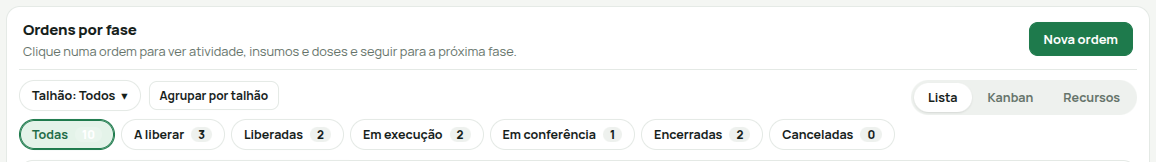
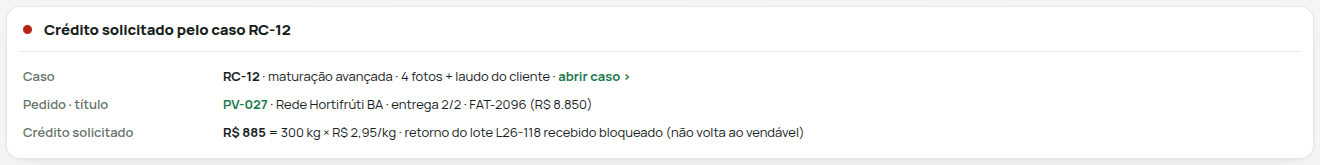
SEP: oráculo do separador na regra de 15/10 e design system VIS-01
Pedido do proprietário (15/10/2026): "retire em todas telas onde tem
excesso de linhas separadoras visuais, deixe somente as que geram efetiva
organização visual e intuitividade".

ds_test.py parte A: o oráculo antigo (A2) exigia linha ou borda no topo
do conteúdo em todo bloco com título; a regra nova só pede a linha quando
o conteúdo logo abaixo é solto. Mudanças:
- A2: linha do título com conteúdo solto (mais estrito que antes nesses
  blocos: a borda do conteúdo não vale mais como linha).
- A2c (novo): sem linha do título antes de tabela, visões, gráfico,
  caixa/cartões, borda ou faixa com fundo.
- A7 (novo): barra da tabela sem linha; A8 (novo): tabela dentro de
  caixa com borda sem moldura própria; A3 a 390 px com as mesmas regras.
- borda() conta só borda visível (cor não transparente).
- amostra separador-bloco.png: bloco do GE-05 (mantém a linha).
ds_unit_test.py: 2.4b (CSS e engine.section) e 2.4c (barra da grade).
docs/design-system/separador-hover-retorno-dica.md §1: regra nova.

Claude-Session: https://claude.ai/code/session_01Div8EjesSwVnpSUvYjZ7kh

diff --git a/tools/prototipo/v37/gen37/ds_test.py b/tools/prototipo/v37/gen37/ds_test.py
@@ -2,7 +2,8 @@
 """DS-SEPARADOR, DS-HOVER, DS-RETORNO e DS-DICA (09/10/2026) · teste de navegador do módulo de design system.
 Chrome headless por CDP (comp_lib.Chrome), servindo o _render:
  A · separador: todas as páginas a 1440 px (cabeçalho da página e linha de título de cada bloco), 8 telas a 390 px e o painel lateral
-     (formulário "Nova safra" e registro do Cadastro);
+     (formulário "Nova safra" e registro do Cadastro); desde 15/10 (SEP-20261015) a linha do título só fica com conteúdo solto abaixo, a barra
+     da tabela não tem linha sobre o cabeçalho e a tabela dentro de caixa com borda não tem moldura própria;
  B · hover verde: linha de grade (O.S. e Cadastros) e controles (secundário, opção de visão, primária) pela cor computada;
  C · retorno visual: tela nova (título realçado, anúncio, barra de carga, foco no título vindo de link); etapa do Planejar safra (avançar
      e voltar); liberar uma O.S. no Kanban (o cartão muda de coluna); normal, repetição e recusa no BO-02; menos movimento;
@@ -110,20 +111,41 @@ SEP = r"""(()=>{ const vis=e=>!!e&&e.getClientRects().length>0;
   const hd=document.querySelector('[data-root]>div>header,[data-mroot]>header,header.g2-cab');
   const hs=hd?getComputedStyle(hd):null; const cab=!!hs&&parseFloat(hs.borderBottomWidth)>=1&&hs.borderBottomStyle!=='none'&&hs.borderBottomColor!=='rgba(0, 0, 0, 0)';
   const linha=(e)=>{ const s=getComputedStyle(e); return /linear-gradient\(rgb\(228, 233, 229\)/.test(s.backgroundImage)||(parseFloat(s.borderBottomWidth)>=1&&s.borderBottomStyle!=='none'); };
-  const borda=(e)=>{ const s=getComputedStyle(e); return parseFloat(s.borderTopWidth)>=1&&s.borderTopStyle!=='none'; };
+  const borda=(e)=>{ const s=getComputedStyle(e); return parseFloat(s.borderTopWidth)>=1&&s.borderTopStyle!=='none'&&!/rgba\(0, 0, 0, 0\)/.test(s.borderTopColor); };   /* borda visível */
   const prim=(e)=>{ let f=e&&e.firstElementChild; while(f&&getComputedStyle(f).display==='contents') f=f.firstElementChild; return f; };
   /* o conteúdo começa por uma borda no topo (tabela emoldurada, caixa com borda, ficha cuja 1ª célula tem border-top): ela é a linha */
   const moldura=(nx)=>{ const f=prim(nx); if(!f) return false; if(borda(f)) return true; const g=prim(f); return !!g&&borda(g); };
   /* linha dupla (revisão DS, achado 5): a linha do título e, até 14 px abaixo dela, outra borda larga no topo do conteúdo */
   const dupla=(row)=>{ const r=row.getBoundingClientRect(), nx=row.nextElementSibling; if(!nx) return false;
     return [nx,...nx.querySelectorAll('*')].filter(vis).slice(0,40).some(k=>{ const q=k.getBoundingClientRect(); return q.top-r.bottom<=14&&q.top>=r.bottom-1&&borda(k)&&q.width>r.width*0.5; }); };
-  const fora=[], duplas=[]; let n=0;
+  /* SEP-20261015 (proprietário, 15/10): a linha do título só fica com conteúdo solto logo abaixo (texto, formulário, lista sem moldura);
+     sai quando o corpo começa por tabela, barra de visões, gráfico, caixa (ou cartões), borda no topo ou faixa com fundo próprio */
+  const ctrl=e=>!!e.closest('button,input,select,textarea,a[href],label,[role=button],[role=tab],[role=group],[role=tablist]');
+  const tr=c=>/rgba\(0, 0, 0, 0\)|transparent/.test(c);
+  const caixaVis=e=>{ const s=getComputedStyle(e); return ['Top','Right','Bottom','Left'].every(l=>parseFloat(s['border'+l+'Width'])>=1&&s['border'+l+'Style']!=='none'&&!tr(s['border'+l+'Color'])); };
+  const bordaVis=e=>borda(e)&&!tr(getComputedStyle(e).borderTopColor);
+  const estrut=(row)=>{ const r0=row.getBoundingClientRect(), nx=row.nextElementSibling, fs=getComputedStyle(row.parentElement).backgroundColor;
+    for(const k of [nx,...nx.querySelectorAll('*')].filter(vis).slice(0,80)){ const s=getComputedStyle(k); if(s.display==='contents') continue; const q=k.getBoundingClientRect(); if(q.top-r0.bottom>40) break;
+      if(k.matches('.g2visoes-w')) return 'visões'; if(k.matches('.g2caixa,[role=table],table')) return 'tabela';
+      if(k.matches('svg,[role=img]')&&q.width>r0.width*0.4) return 'gráfico'; if(ctrl(k)) continue;
+      if(caixaVis(k)) return 'caixa'; if(bordaVis(k)&&q.width>r0.width*0.5) return 'borda';
+      const fundo=!tr(s.backgroundColor)&&s.backgroundColor!==fs&&q.height>=16&&!(parseFloat(s.borderTopLeftRadius)>=14&&q.height<=48)&&!k.matches('[aria-current]');
+      if(fundo&&q.width>r0.width*0.5) return 'faixa';
+      if(fundo&&[...k.parentElement.children].some(x=>x!==k&&vis(x)&&getComputedStyle(x).backgroundColor!==fs&&!tr(getComputedStyle(x).backgroundColor))) return 'cartões';
+      if([...k.childNodes].some(t=>t.nodeType===3&&t.textContent.trim().length>2)) return ''; }
+    return ''; };
+  const fora=[], duplas=[], sobra=[]; let n=0, nsolto=0;
   for(const s of document.querySelectorAll('main section')){ const row=s.firstElementChild; if(!vis(row)||!row.nextElementSibling) continue;
     if(!row.querySelector(':scope>h2,:scope>h3,:scope>div>h2,:scope>div>h3')) continue; n++;
-    const ln=linha(row), t=(row.querySelector('h2,h3').innerText||'').slice(0,40);
-    if(!(ln||moldura(row.nextElementSibling))) fora.push(t);
+    const ln=linha(row), t=(row.querySelector('h2,h3').innerText||'').slice(0,40), es=estrut(row);
+    if(!es){ nsolto++; if(!ln) fora.push(t); }
+    else if(ln) sobra.push(t+' ('+es+')');
     if(ln&&dupla(row)) duplas.push(t); }
-  return {cab, n, fora, duplas, h1:!!document.querySelector('h1')}; })()"""
+  /* (c) barra da tabela sem linha sobre o cabeçalho; (d) tabela dentro de caixa com borda sem moldura própria */
+  const barra=[...document.querySelectorAll('.g2caixa')].filter(vis).map(c=>c.firstElementChild).filter(b=>b&&vis(b)&&b.nextElementSibling&&!b.classList.contains('g2rola')
+    &&(()=>{ const x=getComputedStyle(b); return parseFloat(x.borderBottomWidth)>=1&&x.borderBottomStyle!=='none'&&!tr(x.borderBottomColor); })()).map(b=>(b.innerText||'').slice(0,30));
+  const dentro=[...document.querySelectorAll('.g2caixa')].filter(c=>vis(c)&&caixaVis(c)&&(()=>{ for(let p=c.parentElement;p&&p.tagName!=='MAIN';p=p.parentElement) if(caixaVis(p)) return true; return false; })()).map(c=>(c.innerText||'').slice(0,30));
+  return {cab, n, nsolto, fora, duplas, sobra, barra, dentro, h1:!!document.querySelector('h1')}; })()"""
 PAINEL = "(()=>{const d=[...document.querySelectorAll('aside[role=dialog]')].find(x=>x.getClientRects().length); if(!d) return null; const r=d.firstElementChild; const s=getComputedStyle(r); return {t:(d.querySelector('h2')||{}).innerText||'',b:parseFloat(s.borderBottomWidth)>=1&&s.borderBottomColor==='rgb(228, 233, 229)'};})()"
 try:
     # ======================= A · separador =======================
@@ -133,23 +155,33 @@ try:
         # tela; sai da varredura só enquanto não tiver cabeçalho (se voltar a ser tela, volta a ser medida)
         pags = [p for p in pags if not (p == 'Main.dc.html' and '<header' not in open(os.path.join(R, p), encoding='utf-8').read())]
         janela(1440, 900); media()
-        semcab, semlin, nblocos, duplas = [], [], 0, []
+        semcab, semlin, nblocos, duplas, nsolto, sobra, barras, dentro = [], [], 0, [], 0, [], [], []
         for p in pags:
             c.goto(U(p), .3); time.sleep(.25)
             r = J(SEP) or {}
-            nblocos += r.get('n', 0)
+            nblocos += r.get('n', 0); nsolto += r.get('nsolto', 0)
             if not r.get('cab'): semcab.append(p)
             if r.get('fora'): semlin.append((p, r['fora']))
             if r.get('duplas'): duplas.append((p, r['duplas']))
+            if r.get('sobra'): sobra.append((p, r['sobra']))
+            if r.get('barra'): barras.append((p, r['barra']))
+            if r.get('dentro'): dentro.append((p, r['dentro']))
         chk(f'A1 separador abaixo do cabeçalho da página (título + ação do topo à direita) nas {len(pags)} páginas a 1440 px', not semcab and len(pags) >= 100, semcab)
-        chk(f'A2 linha abaixo do título de cada bloco ({nblocos} blocos com título): própria ou a borda no topo do conteúdo (tabela emoldurada, caixa, ficha)', not semlin and nblocos > 50, semlin[:12])
+        # SEP-20261015 (proprietário, 15/10: "deixe somente as que geram efetiva organização visual"): a linha do título fica só com conteúdo
+        # solto logo abaixo; antes desta data o oráculo pedia linha (ou borda no topo do conteúdo) em todo bloco com título
+        chk(f'A2 linha abaixo do título do bloco com conteúdo solto logo abaixo ({nsolto} de {nblocos} blocos com título)', not semlin and nblocos > 50 and nsolto > 5, semlin[:12])
+        chk('A2c sem linha do título quando o corpo começa por tabela, barra de visões, gráfico, caixa ou cartões, borda no topo ou faixa com fundo (SEP-20261015 b)', not sobra, sobra[:12])
         chk('A2b sem linha dupla: a linha do título não fica sobre outra borda larga até 14 px abaixo (revisão DS, achado 5: AG-04det, GE-05, GE-06det)', not duplas, duplas[:12])
+        chk('A7 barra da tabela (busca, Agrupar por, Colunas) sem linha sobre o cabeçalho da tabela, que já tem fundo (SEP-20261015 c)', not barras, barras[:12])
+        chk('A8 tabela dentro de caixa com borda sem moldura própria (caixa dentro de caixa, SEP-20261015 d)', not dentro, dentro[:12])
         janela(390, 844); media()   # largura do celular sem a emulação de toque (o separador não depende dela; o hover das partes B a D, sim)
         cel = ['SAF.dc.html', 'OS.dc.html', 'EST.dc.html', 'CD-01.dc.html', 'CF-05.dc.html', 'PA.dc.html', 'AG-01.dc.html', 'MB-01.dc.html']
         r390 = {}
         for p in cel:
             c.goto(U(p), .3); time.sleep(.25); r390[p] = J(SEP) or {}
-        chk('A3 a 390 px (8 telas): separador do cabeçalho e dos blocos, sem linha dupla', all(x.get('cab') and not x.get('fora') and not x.get('duplas') for x in r390.values()), {k: v for k, v in r390.items() if not (v.get('cab') and not v.get('fora') and not v.get('duplas'))})
+        chk('A3 a 390 px (8 telas): separador do cabeçalho e dos blocos (com a mesma regra do título), sem linha dupla nem linha de barra de tabela',
+            all(x.get('cab') and not x.get('fora') and not x.get('duplas') and not x.get('sobra') and not x.get('barra') and not x.get('dentro') for x in r390.values()),
+            {k: {kk: vv for kk, vv in v.items() if vv and kk in ('fora', 'duplas', 'sobra', 'barra', 'dentro')} for k, v in r390.items() if not (v.get('cab') and not v.get('fora') and not v.get('duplas') and not v.get('sobra') and not v.get('barra') and not v.get('dentro'))})
         abre('SAF.dc.html'); clk('Criar safra'); time.sleep(.4); pn = J(PAINEL)
         chk('A4 painel "Nova safra": linha abaixo do título e do × do topo à direita', bool(pn) and pn['t'] == 'Nova safra' and pn['b'], pn)
         abre('CD-03.dc.html'); J("(()=>{const r=document.querySelector('[role=row].g2ed'); (r.querySelector('.g2pw')||r).click(); return 1;})()"); time.sleep(.4); pn = J(PAINEL)
@@ -377,7 +409,9 @@ try:
                 d = c.call('Page.captureScreenshot', {'format': 'png', 'clip': {'x': max(0, b[0] - m), 'y': max(0, b[1] - m), 'width': b[2] + 2 * m, 'height': (h or b[3]) + 2 * m, 'scale': 1}})
                 open(os.path.join(AM, nome), 'wb').write(base64.b64decode(d['data'])); return True
             fe = []
-            abre('OS.dc.html'); fe.append(recorte('separador-bloco.png', "document.querySelector('main section')", 6, 150))
+            # SEP-20261015: a amostra é um bloco que mantém a linha (conteúdo solto abaixo do título); o bloco da O.S. (barra de visões) ficou sem ela
+            abre('GE-05.dc.html'); fe.append(recorte('separador-bloco.png', "[...document.querySelectorAll('main section')].find(s=>/Crédito solicitado pelo caso/.test(s.innerText))", 6))
+            abre('OS.dc.html')
             hover("[...document.querySelectorAll('main button')].find(b=>b.innerText.trim()==='Agrupar por talhão')", .6)
             fe.append(recorte('hover-secundario.png', "[...document.querySelectorAll('main button')].find(b=>b.innerText.trim()==='Agrupar por talhão').parentElement", 12))
             abre('BO-02.dc.html'); clk('Conciliar pagamentos'); time.sleep(.6); fora(); time.sleep(.3)

diff --git a/tools/prototipo/v37/gen37/ds_unit_test.py b/tools/prototipo/v37/gen37/ds_unit_test.py
@@ -35,6 +35,19 @@ chk('2.3 nenhuma regra de hover com fundo cinza no gerador (engine, ui37, areas)
 # no topo (caixa com borda, ficha cuja 1ª célula tem border-top), que já faz o papel da linha (AG-04det, GE-05, GE-06det tinham duas linhas)
 chk('2.4 separador: linha abaixo do título do bloco (sem linha dupla sobre conteúdo que começa com borda no topo), do painel lateral e .g2-cab', bool(SEP) and SEP in css
     and 'aside[role=dialog]>div:first-child:has(>h2)' in SEP and ':is([style*="border: 1px"],[style*="border-top: 1px"])' in SEP and '>:first-child>[style*="border-top: 1px"]:first-child' in SEP)
+# SEP-20261015 (proprietário, 15/10: "retire em todas telas onde tem excesso de linhas separadoras visuais, deixe somente as que geram efetiva
+# organização visual e intuitividade"): (b) sem linha do título antes de tabela, caixa, faixa ou barra de visões; (c) sem linha entre a barra da
+# tabela e o cabeçalho com fundo; (d) tabela dentro de caixa sem moldura própria; (e) lista curta e pares rótulo × valor sem linha
+_sec_tab = E.section('Tabela', '', '', '<div class="g2caixa" style="border: 1px solid #E4E9E5;">x</div>') if hasattr(E, 'corpo_estruturado') else ''
+_sec_txt = E.section('Texto', '', '', '<div style="font-size: 13px;">Texto solto</div>') if hasattr(E, 'corpo_estruturado') else ''
+_cab = lambda h: h.split('<div style="display: flex; align-items: center; gap: 10px;">', 1)[0]
+chk('2.4b SEP-20261015: tabela dentro de caixa sem moldura, título sem linha antes da tabela e da barra de visões, lista curta sem linha; '
+    'engine.section só traça a linha do título com conteúdo solto abaixo',
+    bool(SEP) and '.g2caixa{border-color:transparent!important}' in SEP and '.g2visoes-w' in SEP and ':not(:has(>[style*="border-top: 1px solid"]~[style*="border-top: 1px solid"]~[style*="border-top: 1px solid"]~[style*="border-top: 1px solid"]))' in SEP
+    and 'border-bottom' not in _cab(_sec_tab) and 'border-bottom: 1px solid' in _cab(_sec_txt), [_cab(_sec_tab)[-160:], _cab(_sec_txt)[-160:]])
+_g = E.grid([dict(k='a', l='A')], [dict(id='r1', v=dict(a='1'))], gid='g_sep_unit') if hasattr(E, 'grid') else ''
+_tb = _g.split('<div class="g2rola">', 1)[0]
+chk('2.4c barra da tabela (busca, Agrupar por, Colunas) sem borda inferior: o cabeçalho da tabela já tem fundo', bool(_g) and 'padding: 8px 12px;' in _tb and 'padding: 8px 12px; border-bottom' not in _tb, _tb[:300])
 chk('2.5 realce: animação de 0,52 s e, com menos movimento, realce estático sem animação', '@keyframes g2realce' in css and '.g2-realce{animation:g2realce 0.52s' in css and re.search(r'prefers-reduced-motion:reduce\)\{\.g2-realce\{animation:none!important', css))
 chk('2.6 barra de carga no topo e dica (role=tooltip criada pelo g2lib) com estilo comum', '#g2-carga{' in css and '.g2dica{' in css and '.g2dica-i{' in css)
 chk('2.7 indisponível com motivo (aria-disabled) com a aparência do desabilitado', ':is(button,a)[aria-disabled=true]{opacity:.55' in css)

diff --git a/docs/design-system/separador-hover-retorno-dica.md b/docs/design-system/separador-hover-retorno-dica.md
@@ -15,32 +15,48 @@ Proposta para o capítulo 74 do PRD, que está em revisão. Os tokens abaixo sã
 
 **Pedido:** «tem telas sem essas linhas separadoras visuais que ficam abaixo do título e do botão no topo à direita como no caso nova safra. [...] acho melhor ter para organizar a visão e a mente em blocos. Faça em todas telas e padronize no design system.»
 
-**Regra.** Uma linha de 1 px separa o cabeçalho do conteúdo, em três lugares:
+**Revisão de 15/10/2026** (proprietário: «retire em todas telas onde tem excesso de linhas separadoras visuais, deixe somente as que geram efetiva organização visual e intuitividade»). Fica a linha que separa duas zonas que nada mais separa; sai a que repete um espaço, um título, um fundo ou outra borda.
 
-1. **Cabeçalho da página** (título e ação do topo à direita). É a borda inferior do `header` da casca, em todas as telas. O índice e a ficha impressa, que não usam a casca, usam `.g2-cab`.
-2. **Linha de título do bloco** (`section` com título, descrição e ação à direita). A linha fica recuada 12 px dos lados, como a moldura da tabela da tela Planejar safra. Quando o conteúdo do bloco já começa por uma borda no topo (tabela emoldurada `.g2caixa`, caixa com borda como a «Memória de cálculo», ficha de rótulo × valor cuja 1ª célula tem `border-top`), essa borda é a linha. Assim não há linha dupla (revisão DS de 09/10: AG-04det, GE-05 e GE-06det tinham duas).
-3. **Painel lateral** (`aside[role=dialog]`): abaixo do título e do × do topo à direita. É o caso do formulário «Nova safra».
+**Regra.** Ficam:
+
+1. **Cabeçalho da página** (título e ação do topo à direita): a borda inferior do `header` da casca, em todas as telas. O índice e a ficha impressa, que não usam a casca, usam `.g2-cab`.
+2. **Painel lateral** (`aside[role=dialog]`): abaixo do título e do × do topo à direita (formulário «Nova safra»).
+3. **Linhas da própria tabela**: cabeçalho, entre linhas e a linha do total.
+4. **Linha de título do bloco** (`section` com título e ação à direita), recuada 12 px dos lados, **só quando logo abaixo vem conteúdo solto** (texto, formulário, botões, lista ou ficha sem moldura).
+
+Saem, pelo componente comum (`engine.SEP_CSS`, `engine.section`, `engine.grid`, `ui37`) e pelas fichas e estados vazios das áreas:
+
+| | Linha que sai | No lugar |
+|---|---|---|
+| a | colada (≤ 16 px) em outra linha, borda ou mudança de fundo (faixa de etapas, pé fixo do app, barra do Mapa, 1ª linha de lista que abre uma caixa) | fundo; sombra na barra presa |
+| b | do título, quando abaixo já vem tabela, caixa, cartões, faixa com fundo, gráfico/mapa ou a barra de modos de visão | o próprio conteúdo |
+| c | entre a barra da tabela (busca, chips, Colunas, Agrupar por) e o cabeçalho, que já tem fundo | fundo do cabeçalho |
+| d | borda da caixa de dentro (tabela em bloco com borda; memória de cálculo, indicadores, dias da agenda) | espaço e fundo |
+| e | entre pares rótulo × valor e entre itens de lista curta (2 a 3 itens, contados na hora) | espaço |
+| f | tracejada decorativa (estados vazios, aviso, estado da visão) | fundo `#F4F6F3` |
+
+Continuam, por proteger algo concreto: borda colorida de estado (aviso, etapa atual, carga parcial), selos e campos, cartões clicáveis, a tracejada que separa a lista do «Incluir produto», a linha do pé fixo de ações do painel quando o fundo é o mesmo e a ficha impressa.
 
 | Token | Valor |
 |---|---|
 | cor | `#E4E9E5` (a mesma linha de tabelas e cartões) |
 | recuo no bloco | 12 px de cada lado |
 | espaço depois da linha | 10 px no bloco, 12 px no painel, 14 px em `.g2-cab` |
+| espaço onde a linha saiu | 10 a 14 px (o espaçamento do bloco; o título do `engine.section` perde o respiro de baixo) |
 
 **Amostra** (o bloco não precisa de nada além da estrutura comum):
 
 ```html
 <section>                                  <!-- bloco -->
-  <div>                                    <!-- linha de título: a linha vem do CSS comum -->
-    <div><h3>Ordens por fase</h3><div>Clique numa ordem…</div></div>
-    <button>Nova ordem</button>
+  <div>                                    <!-- linha de título: a linha vem do CSS comum, só com conteúdo solto abaixo -->
+    <div><h3>Crédito solicitado pelo caso RC-12</h3></div>
   </div>
-  <div>… conteúdo …</div>
+  <div>… pares rótulo × valor …</div>      <!-- com <div class="g2caixa"> aqui, a linha não é traçada -->
 </section>
 <header class="g2-cab">…</header>          <!-- tela fora da casca -->
 ```
 
-![Separador abaixo do título do bloco](amostras/separador-bloco.png)
+![Separador abaixo do título do bloco com conteúdo solto (GE-05)](amostras/separador-bloco.png)
 
 ## 2. Hover verde
 
@@ -156,4 +172,4 @@ Nada de dica que repita o rótulo visível.
 |---|---|
 | `node ds_unit.js` | regra do texto da dica, dicionário de estados e contraste AA |
 | `python3 ds_unit_test.py` | CSS comum, ausência de hover cinza, pontos centrais do motor, glossário e fórmula, tokens e páginas geradas |
-| `python3 ds_test.py` | navegador: separador nas 140 páginas e a 390 px (sem linha dupla), hover computado, realce e anúncio (tela, etapa, O.S. no Kanban, BO-02), barra de carga que termina (também ao voltar pelo navegador), foco no título da etapa nova, menos movimento, dica (hover, foco, Esc, aria-describedby, toque longo, linha e cartão focados, selo do bloqueio, sigla na célula, title redundante), motivo do indisponível visível em texto a 1440 e 390 px (G) e, com `DS_ANTES=<_render da base>`, capturas antes/depois a 1440 e 390 px de OS, PA, PM, AG-01, AG-01det e AG-07 em `_probe/ds/` (telas onde faltava a linha; o teste confere que antes ≠ depois) |
+| `python3 ds_test.py` | navegador: separador nas páginas a 1440 e a 390 px (A2: linha do título só com conteúdo solto; A2b: sem linha dupla; A2c: sem linha antes de tabela, caixa, faixa, gráfico ou visões; A7: barra da tabela sem linha; A8: tabela dentro de caixa sem moldura), hover computado, realce e anúncio (tela, etapa, O.S. no Kanban, BO-02), barra de carga que termina (também ao voltar pelo navegador), foco no título da etapa nova, menos movimento, dica (hover, foco, Esc, aria-describedby, toque longo, linha e cartão focados, selo do bloqueio, sigla na célula, title redundante), motivo do indisponível visível em texto a 1440 e 390 px (G) e, com `DS_ANTES=<_render da base>`, capturas antes/depois a 1440 e 390 px de OS, PA, PM, AG-01, AG-01det e AG-07 em `_probe/ds/` (telas onde faltava a linha; o teste confere que antes ≠ depois) |
